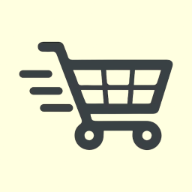
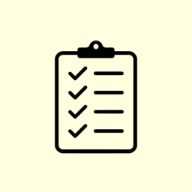
changed-to-list

Changed region(s): [[0.0938, 0.1875, 0.9062, 0.8125]]

diff --git a/index.html b/index.html
@@ -14,15 +14,15 @@
     <link rel="apple-touch-icon" sizes="180x180" href="/apple-touch-icon.png" />
     <link rel="icon" type="image/png" sizes="32x32" href="/favicon-32x32.png" />
     <link rel="icon" type="image/png" sizes="16x16" href="/favicon-16x16.png" />
-    <link rel="icon" href="assets/favicon.ico">
     <link rel="manifest" href="/site.webmanifest" />
+    <link rel="icon" href="assets/favicon.ico" />
   </head>
   <body>
     <div class="container">
-      <img src="assets/cart.png" alt="" />
+      <img src="assets/listcolor.png" alt="" />
       <form action="">
         <input type="text" id="input-field" placeholder="Bread" />
-        <button id="add-button" type="submit">Add to Cart</button>
+        <button id="add-button" type="submit">Add to List</button>
       </form>
       <ul type="none" id="shopping-list"></ul>
     </div>
